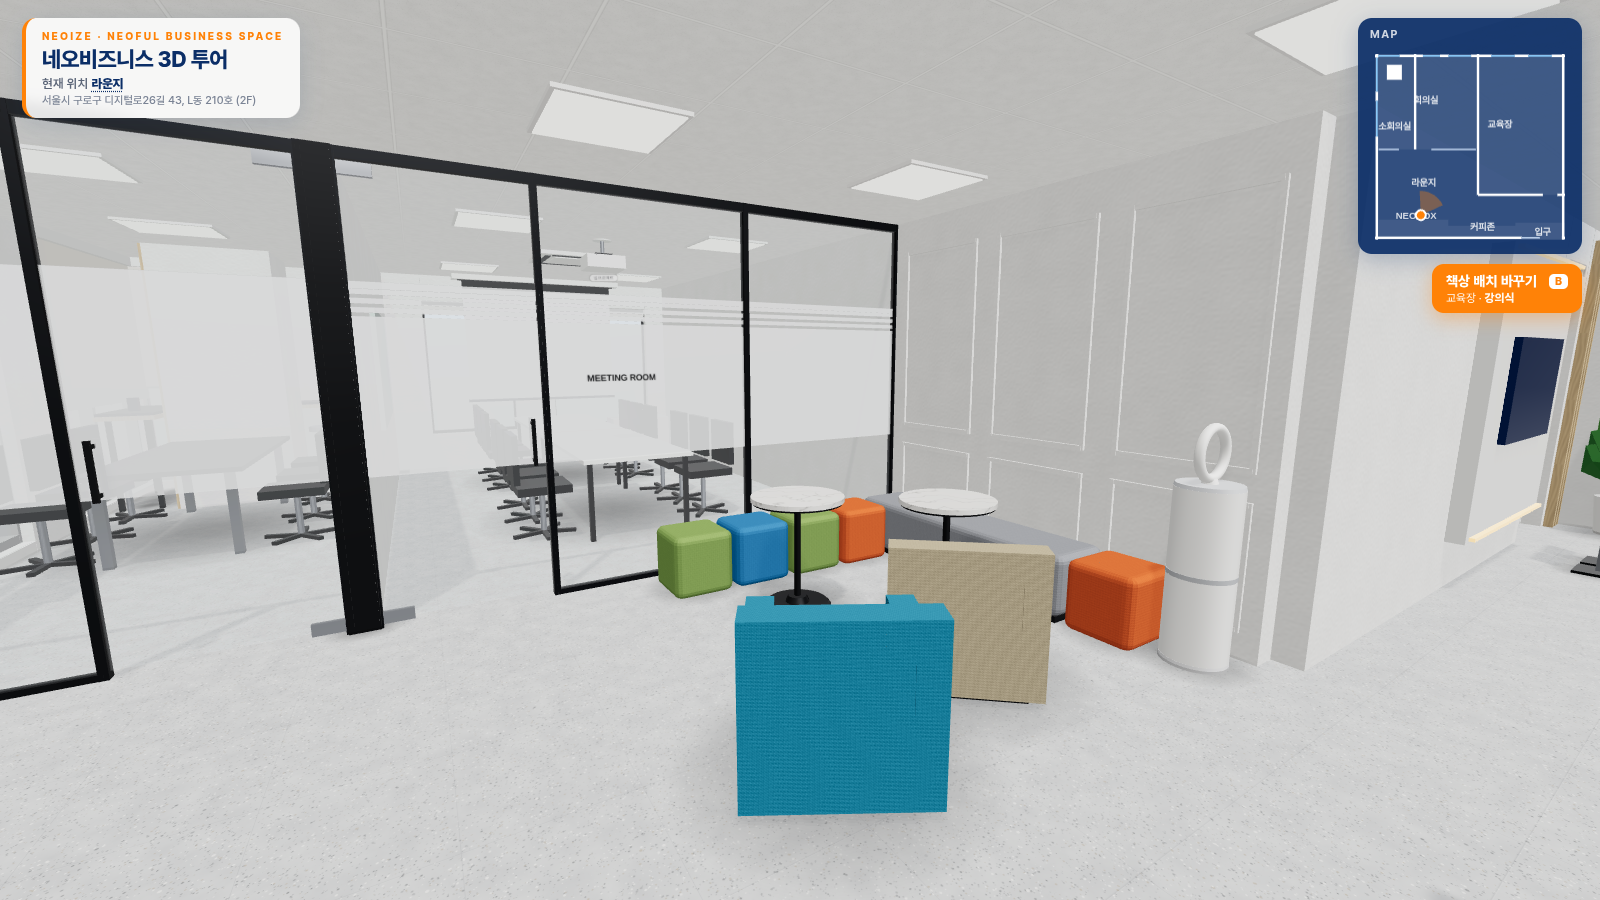
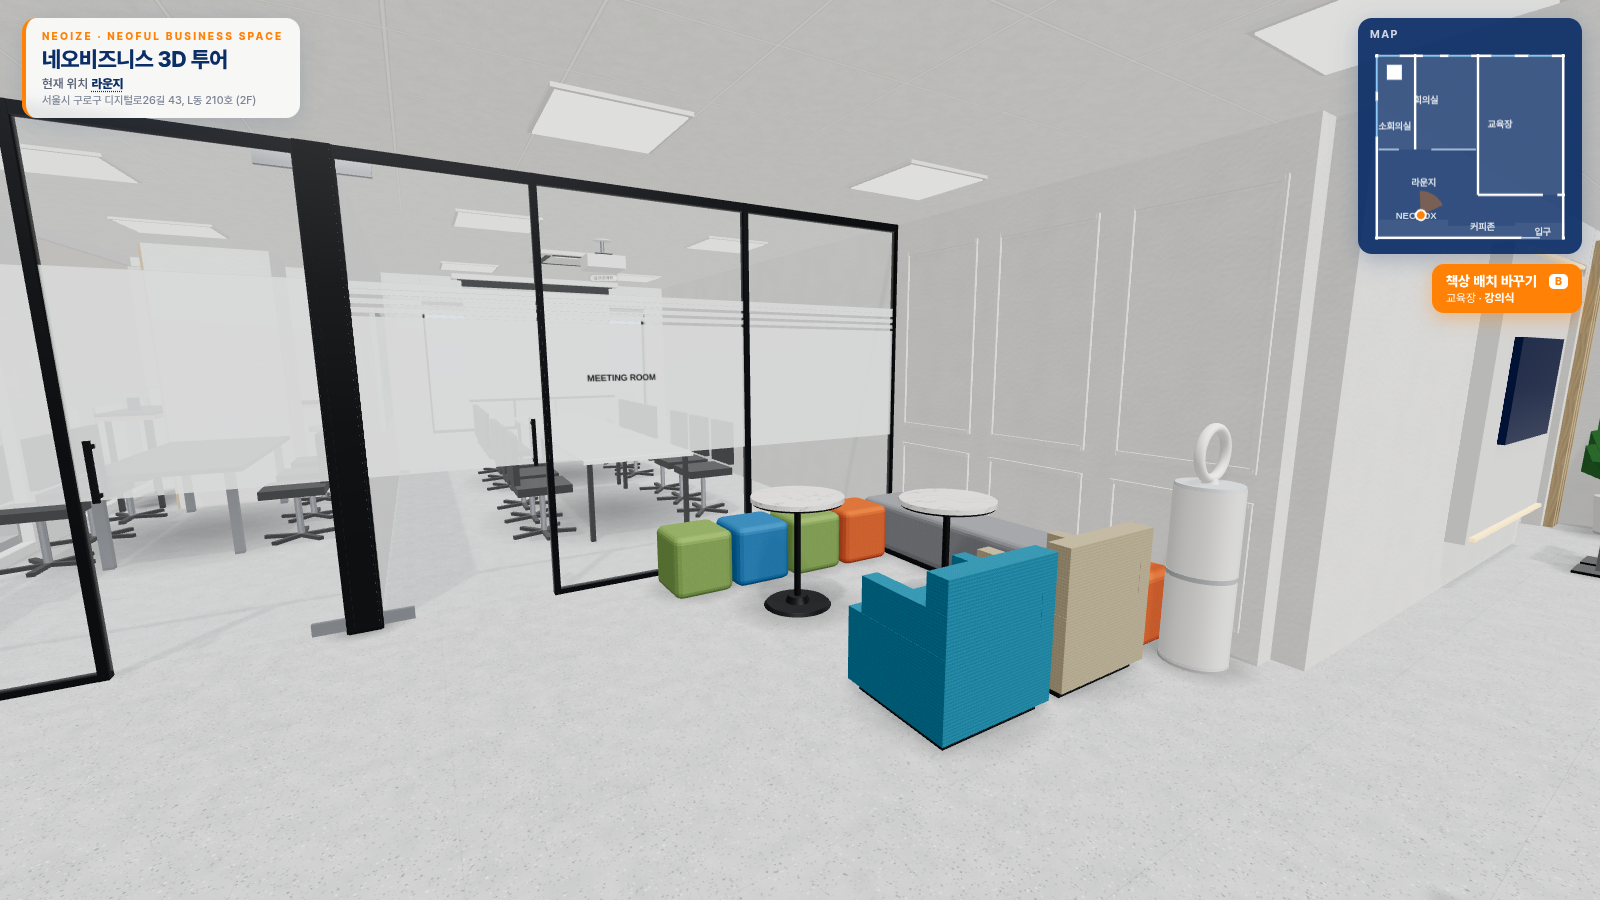
라운지 암체어 축소(0.66×0.64×0.75)·나란히 테이블을 바라보게

Changed region(s): [[0.4375, 0.5911, 0.7188, 0.9333]]

diff --git a/app.js b/app.js
@@ -5,7 +5,7 @@ import { OrbitControls } from 'three/addons/OrbitControls.js';
 import { CSS2DRenderer, CSS2DObject } from 'three/addons/CSS2DRenderer.js';
 import { RoomEnvironment } from 'three/addons/RoomEnvironment.js';
 import { mergeGeometries } from 'three/addons/BufferGeometryUtils.js';
-import { makeTextures, textTexture } from './textures.js?v=11191415';
+import { makeTextures, textTexture } from './textures.js?v=11191420';
 
 const L = window.LAYOUT, B = L.building, H = B.ceiling, EYE = B.eye || 1.6, W = B.width, D = B.depth;
 const TW = Object.assign({ exterior: 0.24, interior: 0.14, thick: 0.3 }, B.wall || {});
@@ -400,11 +400,12 @@ function arcWall(R0, R1, h, open, m, y, p, bevel = 0.025) {
   geo.rotateX(-Math.PI / 2); geo.translate(0, y + bevel, 0); geo.computeVertexNormals();
   const g = new THREE.Mesh(geo, m); p.add(g); return g;
 }
-function armchair(g, o) {   // 라운지 암체어(이전 모델로 되돌림, 사용자 11/19)
-  const m = matOf(o.color || 'fabricTeal');
-  box(0.72, 0.36, 0.68, m, 0, 0.04, 0, g); box(0.72, 0.36, 0.14, m, 0, 0.38, 0.27, g);
-  box(0.12, 0.2, 0.62, m, -0.3, 0.38, 0.03, g); box(0.12, 0.2, 0.62, m, 0.3, 0.38, 0.03, g);
-  box(0.6, 0.04, 0.56, M.black, 0, 0, 0, g);
+function armchair(g, o) {   // 라운지 암체어(상자형): 폭 0.66 × 깊이 0.64 × 높이 0.75, 앞 = 로컬 -z
+  const m = matOf(o.color || 'fabricTeal'), w = o.w || 0.66, d = o.d || 0.64, aw = 0.09;
+  box(w - 0.08, 0.05, d - 0.08, M.black, 0, 0, 0, g);                          // 낮은 검정 받침
+  box(w, 0.37, d, m, 0, 0.05, 0, g);                                           // 몸통 + 방석 (앉는 높이 0.42)
+  box(w, 0.33, 0.12, m, 0, 0.42, d / 2 - 0.06, g);                             // 등받이 (위 끝 0.75)
+  box(aw, 0.18, d - 0.1, m, -(w / 2 - aw / 2), 0.42, 0.05, g); box(aw, 0.18, d - 0.1, m, w / 2 - aw / 2, 0.42, 0.05, g);   // 팔걸이
 }
 function cube(g, o) { const s = o.size || 0.42; rbox(s, o.h || s, s, 0.045, matOf(o.color || 'fabricOrange'), 0, 0, 0, g); }   // 패브릭 큐브 스툴(둥근 모서리)
 function roundTable(g, o) {   // 카페 원형 테이블: 대리석 상판 + 가는 검정 기둥 + 둥근 검정 원판 받침

diff --git a/layout.js b/layout.js
@@ -320,8 +320,8 @@ window.LAYOUT = {
     { type:'cube', x:6.36, z:8.55, color:'fabricOrange' },                         // 벤치 남쪽 끝 주황 큐브 z8.34–8.76
     { type:'roundTable', x:5.0,  z:7.22, r:0.3, h:0.72 },                          // 큐브 앞 카페 테이블
     { type:'roundTable', x:5.75, z:7.78, r:0.3, h:0.72 },                          // 벤치 앞(코너 쪽) 카페 테이블
-    { type:'armchair', x:4.3,  z:8.65, rot:-30, color:'fabricTeal' },              // 앞쪽 청록 터브 암체어
-    { type:'armchair', x:5.25, z:8.38, rot:-40, color:'fabricBeige' },             // 뒤 오른쪽 베이지 암체어
+    { type:'armchair', x:5.0,  z:8.55, rot:0, color:'fabricTeal' },               // 청록 암체어 — 카페 테이블(5.0, 7.22)을 정면으로 봄
+    { type:'armchair', x:5.75, z:8.55, rot:0, color:'fabricBeige' },              // 베이지 암체어 — 옆에 나란히, 테이블(5.75, 7.78)을 봄
     { type:'purifier', x:6.4, z:8.96 },                                            // LG 공기청정기 z8.80–9.13 — 몰딩 벽 남쪽 끝(z9.18)보다 5cm 안쪽
 
     /* --- 입구 --- */

diff --git a/index.html b/index.html
@@ -144,8 +144,8 @@ body.walk .tag{display:none}   /* 걷기: 방 이름 핀은 숨기고 왼쪽 위
   </div>
 </aside>
 <!-- 공간 설정: 치수·가구 배치는 layout.js 에서 수정 -->
-<script src="layout.js?v=11191415"></script>
+<script src="layout.js?v=11191420"></script>
 <script type="importmap">{"imports":{"three":"./lib/three.module.min.js","three/addons/":"./lib/addons/"}}</script>
-<script type="module" src="app.js?v=11191415"></script>
+<script type="module" src="app.js?v=11191420"></script>
 </body>
 </html>

diff --git a/수정방법.md b/수정방법.md
@@ -286,5 +286,5 @@ ceiling: { panels:[ { rect:[x1,z1,x2,z2], nx:2, nz:3 } ],  aircon:[[x,z], ...] }
 ## 라운지 북동쪽 코너 (11/19 사진)
 - 회의실 유리(z6.22) 앞 큐브 줄(초록·파랑·초록·주황, x4.55–5.9) → 교육장 몰딩 벽 아래 L자 회색 `bench`(x6.36, z6.4–8.32) → 주황 큐브(z8.55) → 공기청정기(z8.96). 몰딩 벽은 z9.18 에서 끝나니 이보다 남쪽으로 튀어나오지 않게 두세요.
 - 카페 원형 테이블 2개(`roundTable` r0.3, h0.72: 대리석 상판 + 검정 기둥/원판), 터브 암체어 2개(`armchair`, 청록·베이지), LG 공기청정기(`purifier`, 흰 원통 2단 + 원형 센서 헤드). (오토만 큐브 2개·크롬 차단봉은 사용자 요청으로 뺐어요. 필요하면 `stanchion` 타입으로 다시 넣을 수 있어요.)
-- `cube`·`bench` 는 둥근 모서리(패브릭), `armchair` 는 이전 상자형 소파 모델이에요(둥근 터브형은 사용자 요청으로 되돌림). rot 으로 바라보는 방향을 바꿀 수 있어요.
+- `cube`·`bench` 는 둥근 모서리(패브릭), `armchair` 는 상자형(폭 0.66 × 깊이 0.64 × 높이 0.75, w·d 로 조절). 두 개를 z8.55 에 나란히(rot 0) 두어 카페 테이블을 봐요. rot 으로 바라보는 방향을 바꿀 수 있어요.
 - NEOBOX → 회의실/소회의실 문 쪽 통로(x2–3.9)는 비워 두세요.
